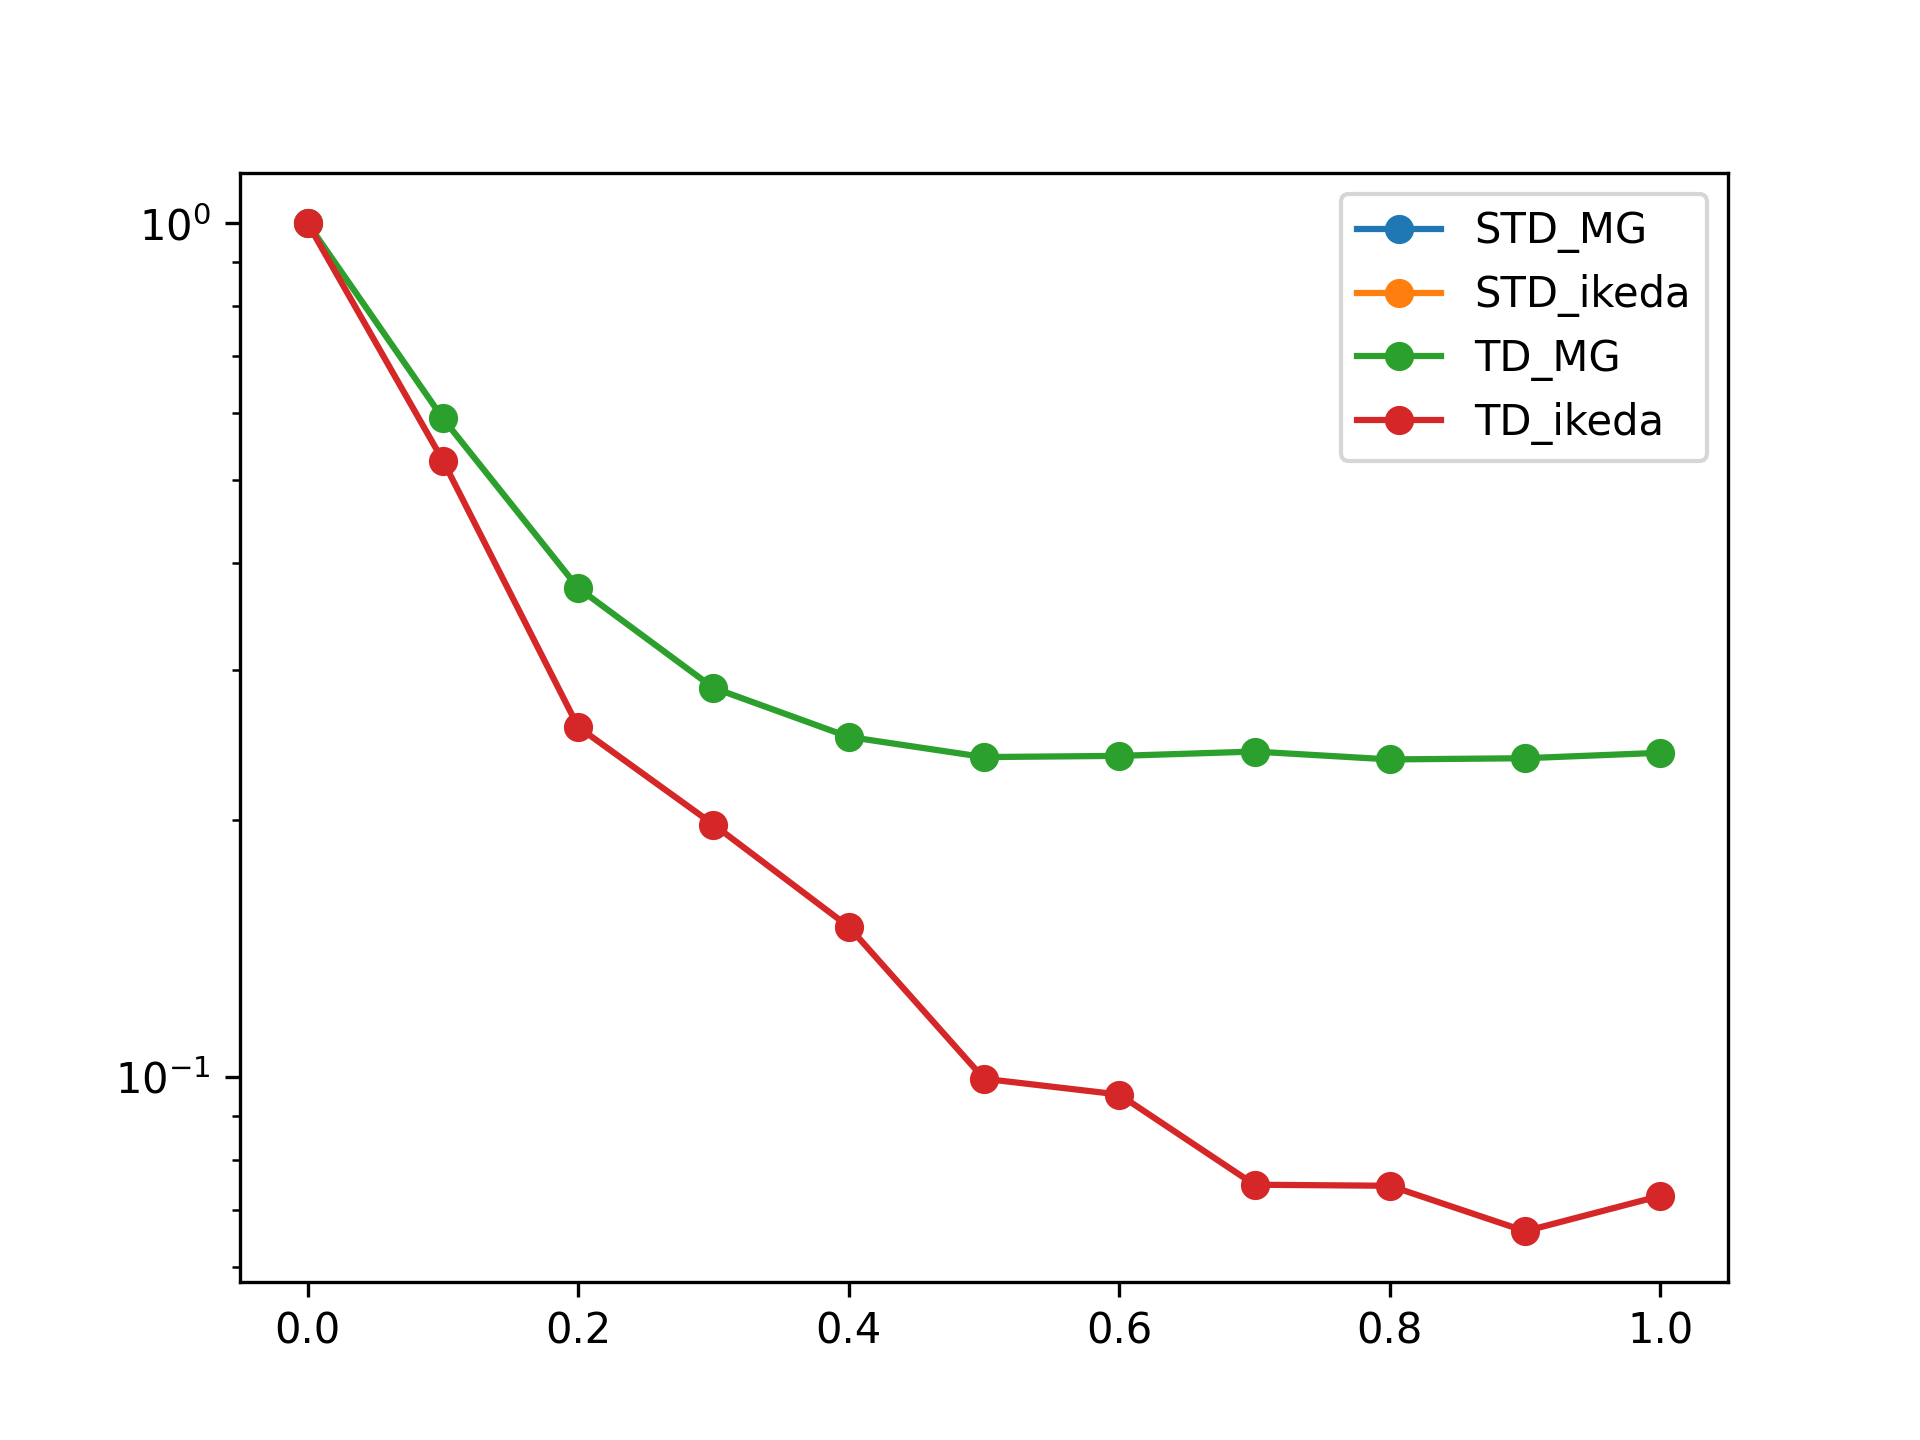
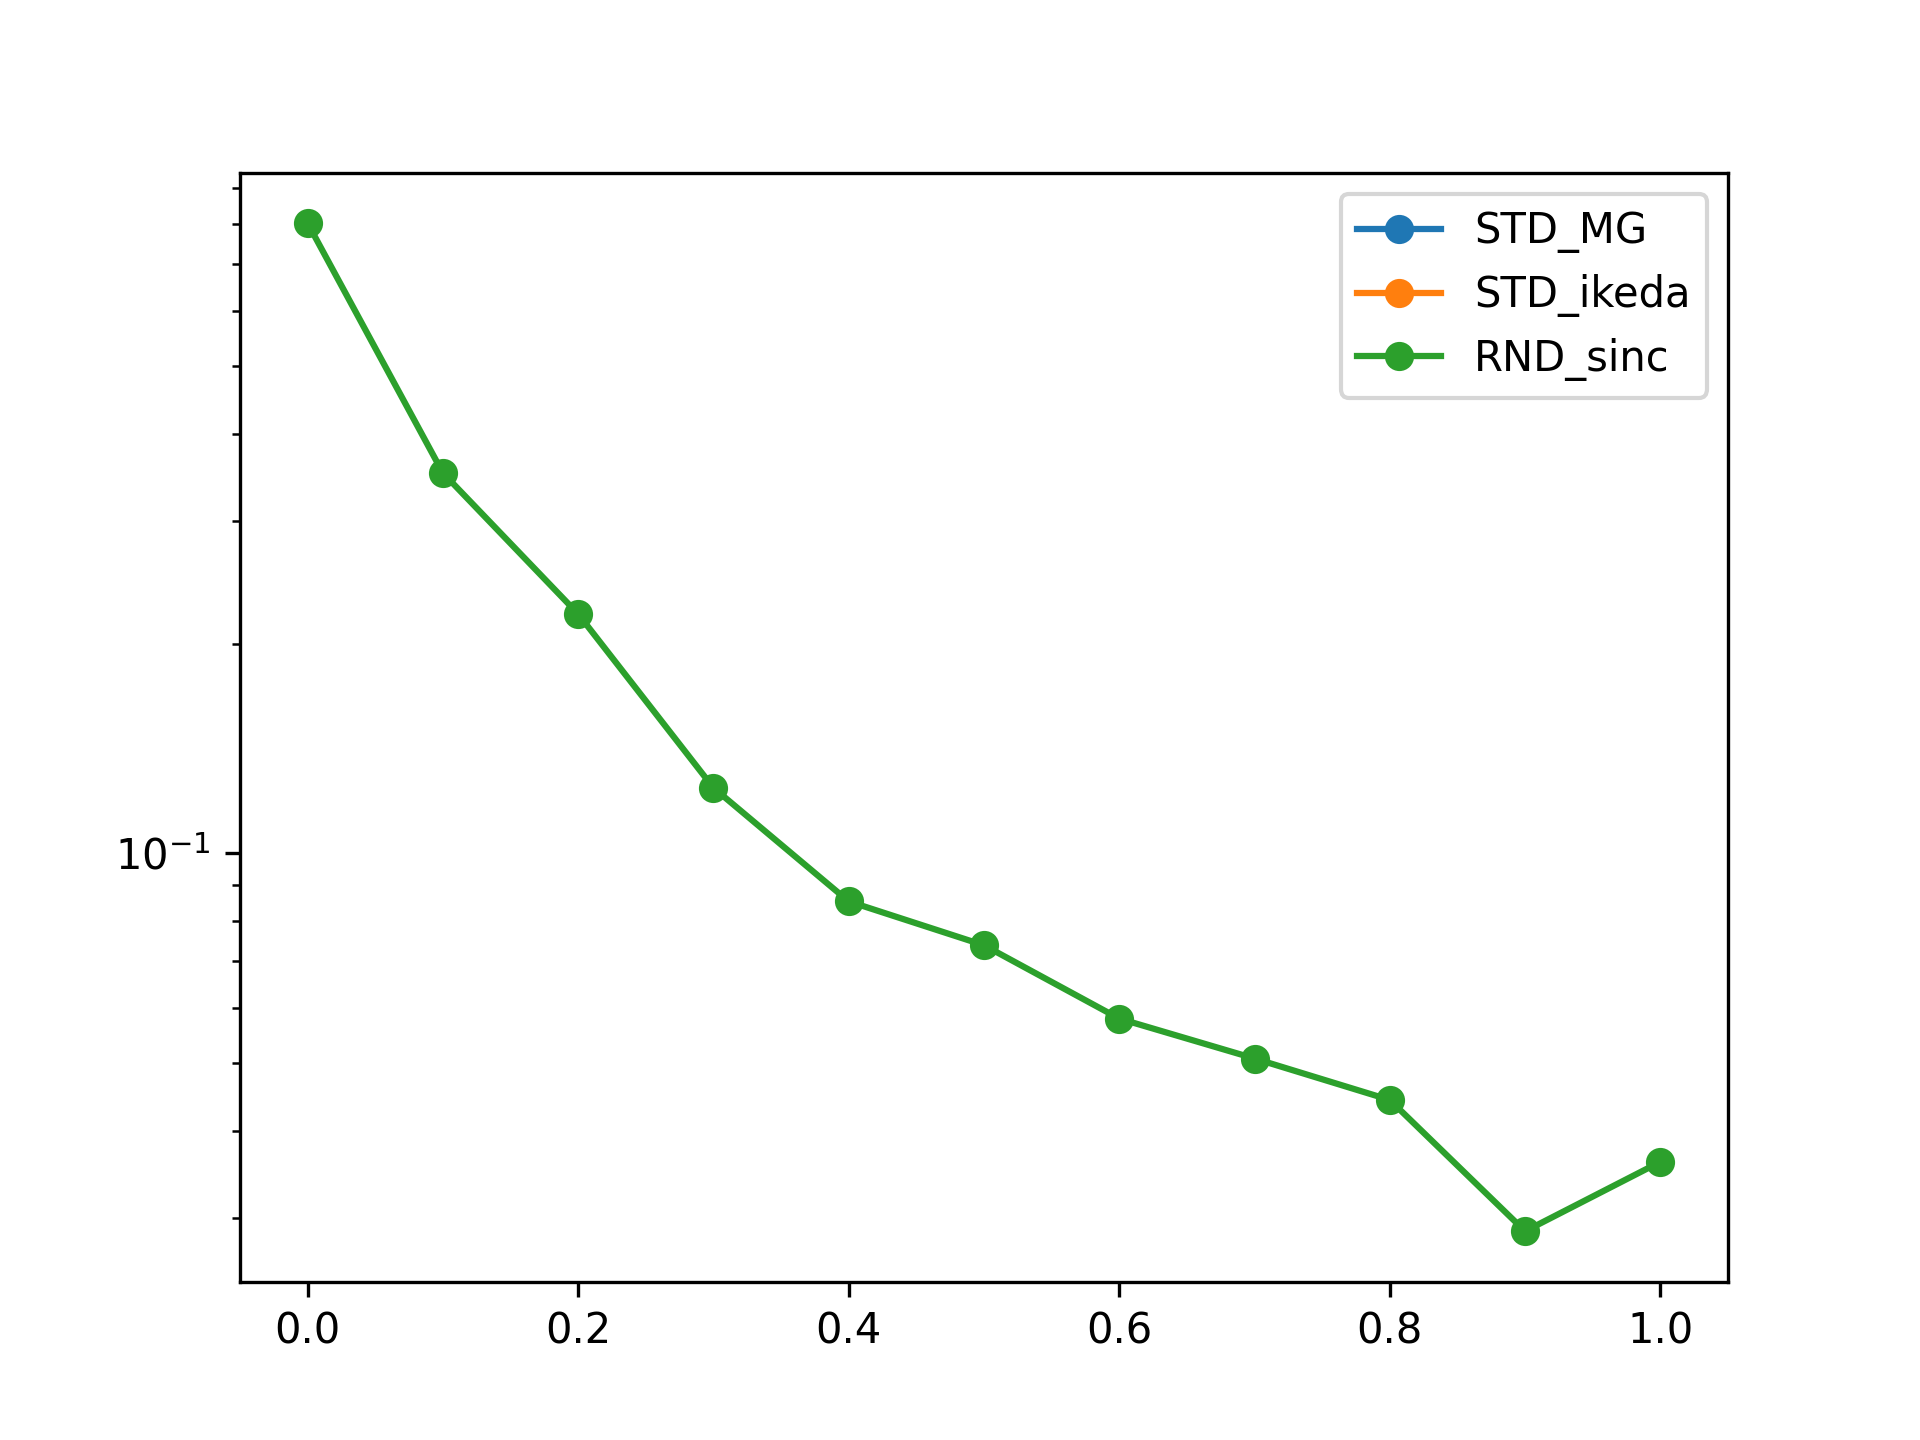
グラフ生成

diff --git a/reservoir_ESN/graph.py b/reservoir_ESN/graph.py
@@ -1,13 +1,13 @@
 import pandas as pd
 import os
 from matplotlib import pyplot as plt
-folder = "output_data_STDE/"
+folder = "output_data_mix/"
 for name in os.listdir(folder):
     #name = "approx_3_3.0_100"
     name = os.path.splitext(os.path.basename(name))[0]
     df = pd.read_csv(folder + name + '.txt', sep=',',comment='#')
     p_list = df["p"].unique()
-    function_names = ["STD_MG", "STD_ikeda","TD_MG", "TD_ikeda"];
+    function_names = ["STD_MG", "STD_ikeda", "RND_sinc"];
     for function_name in function_names:
         data_x, data_y = [], []
         for p in p_list:
